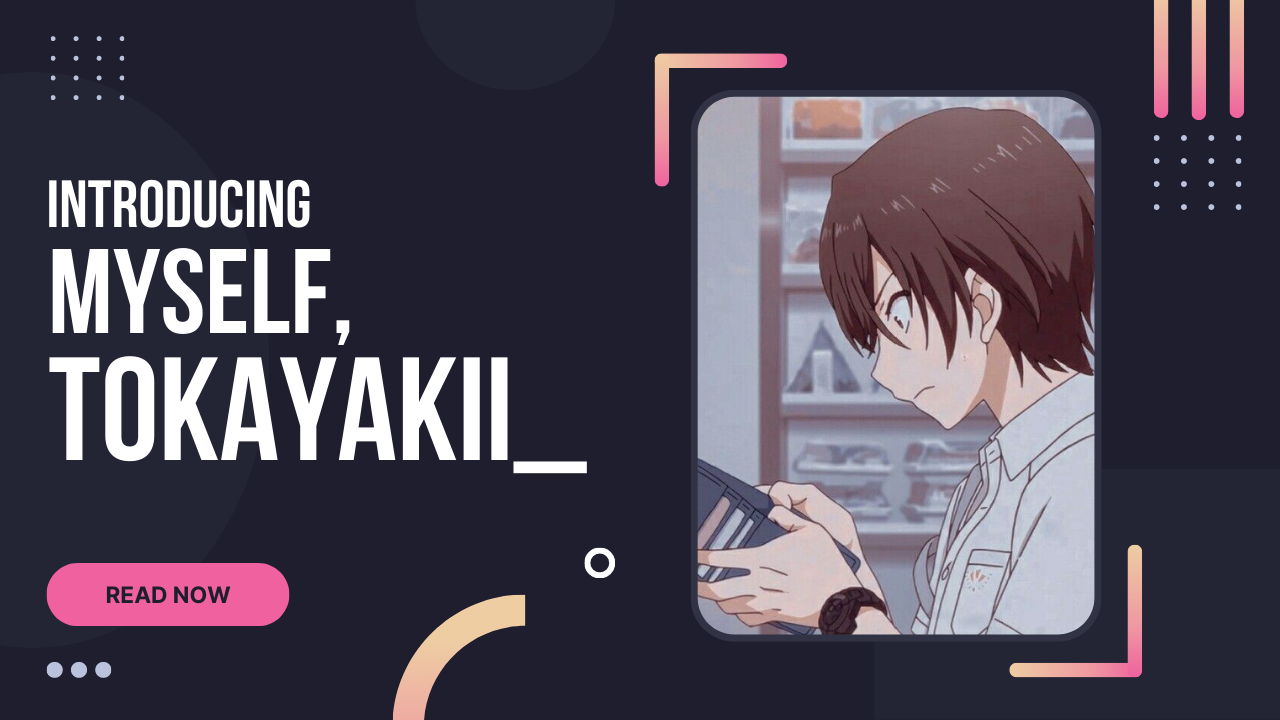
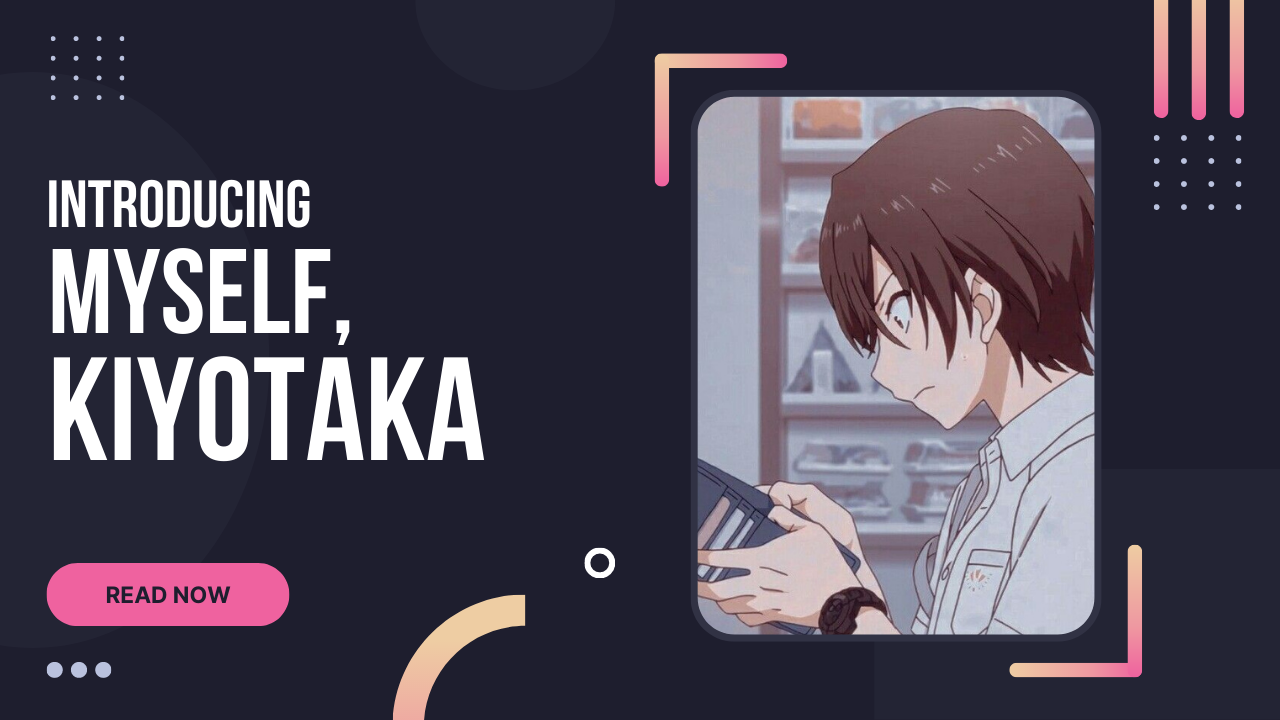
feat(mobile): Add NavBar dropdown for mobile screen devices

Changed region(s): [[0.0312, 0.4889, 0.4062, 0.6417], [0.4062, 0.6417, 0.4688, 0.6722]]

diff --git a/src/views/HomeView.vue b/src/views/HomeView.vue
@@ -143,9 +143,9 @@
                 </div>
             </div>
         </div>
-        <div class="w-screen h-screen sm:h-fit py-12 bg-base pt-10 text-text sm:px-44 px-8 relative">
+        <div class="w-screen min-h-[660px] sm:h-fit bg-base pt-10 text-text sm:px-44 px-8 relative">
             <div class="text-4xl font-bold">Blogs</div>
-            <div class="blog mt-10 sm:flex h-[380px]">
+            <div class="blog mt-6 sm:flex h-[380px]">
                 <img
                     src="/blog.png"
                     class="sm:w-1/2 border-2 border-surface0/40 rounded-lg"
@@ -159,7 +159,7 @@
                         </div>
                     </div>
                     <div class="title mt-4 text-3xl font-bold">
-                        Introducing myself, I am thevoidcupboard!
+                        Introducing myself, I am kiyotaka!
                     </div>
                     <div class="title mt-2 text-overlay1 font-semibold">
                         A summary of my life as a programmer!
@@ -189,15 +189,15 @@
                     </div>
                     <div class="flex mt-4">
                         <a href="/blog/me" class="text-blue font-semibold flex items-center justify-center text-xs text:text-base">Read more <vue-feather type="arrow-right"  size="20" class="ml-2"/></a>
-                        <div class="sumup ml-auto flex bg-surface0/40 p-4 sm:p-2 rounded-xl px-5 text-xs sm:text-base">
-                            <div class="time flex items-center justify-center"><vue-feather type="clock" size="16" class="mr-2" />10 min</div>
-                            <div class="time ml-6 flex items-center justify-center"><vue-feather type="eye" size="16" class="mr-2" />1408</div>
+                        <div class="sumup ml-auto flex bg-surface0/40 p-4 sm:p-2 rounded-xl px-5 sm:px-4 text-xs sm:text-base">
+                            <div class="time flex items-center justify-center text-text"><vue-feather type="clock" size="16" class="mr-2" />10 min</div>
+                            <div class="time ml-6 flex items-center justify-center text-text"><vue-feather type="eye" size="16" class="mr-2" />1408</div>
                         </div>
                     </div>
                 </div>
             </div>
         </div>
-        <div class="w-screen py-12 bg-base pt-32 text-text flex items-center justify-center flex-col sm:px-44 relative">
+        <div class="w-screen pb-12 pt-20 sm:pt-0 bg-base text-text flex items-center justify-center flex-col sm:px-44 relative">
             <div class="text-4xl font-bold text-center">Get in Touch</div>
             <div class="sm:w-1/2 px-4 text-overlay1 font-semibold text-center mt-4">Wanna talk about a project? Contact me below! I will try to respond as soon as possible</div>
             <div class="w-1/2 mt-4 bg-surface0/40 p-2 rounded-3xl flex items-center justify-center hidden sm:flex">
@@ -209,7 +209,7 @@
                 <button class="bg-blue px-6 text-black rounded-3xl p-4 mt-4 mx-4 font-semibold">Sumbit</button>
             </div>
         </div>
-        <div class="w-screen h-52 pt-14 bg-base">
+        <div class="w-screen bg-base h-52 pt-14">
             <div class="w-[1600px] flex flex-col text-overlay1 items-center pt-12 bg-surface0/40 relative left-1/2 -translate-x-1/2 h-[1600px] rounded-full">
                 <img
                     src="https://avatars.githubusercontent.com/u/115910279?v=4"
@@ -229,9 +229,9 @@ import CircleType from "circletype";
 import SideBar from "../components/SideBar.vue";
 import { onMounted } from "vue";
 
-onMounted(() => {
-    const circletype = new CircleType(document.querySelector(".rounded"));
-
-    circletype.radius(48);
-});
+// onMounted(() => {
+//     const circletype = new CircleType(document.querySelector(".rounded"));
+//
+//     circletype.radius(48);
+// });
 </script>

diff --git a/src/components/NavBar.vue b/src/components/NavBar.vue
@@ -1,3 +1,26 @@
+<script lang="ts" setup>
+import {ref} from 'vue';
+
+
+const dropdown = ref<HTMLDivElement | null>(null);
+
+const open_dropdown = () => {
+    if(dropdown.value) {
+        if(dropdown.value.classList.contains("hidden")) {
+            dropdown.value.classList.remove("hidden")
+            dropdown.value.classList.add(...["flex" , "animate-grow" , "opacity-0"])
+
+            dropdown.value.querySelectorAll(".nav-item").forEach(e => {
+                e.classList.add("animate-fade_in")
+                console.log("HEHE")
+            })
+            
+            dropdown.value.querySelector(".quick_links")?.classList.add("animate-fade_in")
+        }
+    }
+}
+</script>
+
 <template>
     <div
         class="w-full z-40 h-20 fixed top-0 left-0 border-b-2 backdrop-blur-lg bg-base/20 text-text font-semibold border-b-surface0/40 flex items-center sm:justify-center"
@@ -16,8 +39,36 @@
             <div class="nav-item mx-8">Store</div>
             <div class="nav-item ml-8">Contact</div>
         </div>
-        <div class="sm:hidden ml-auto mr-5">
+        <div class="sm:hidden ml-auto mr-5" @click="open_dropdown()">
             <vue-feather type="menu" />
+        </div>
+        <div class="dropdown h-screen flex-col h-[0px] items-center pt-10 gap-y-7 w-screen fixed top-0 left-0 bg-surface0 hidden" ref="dropdown">
+            <div class="nav-item">Home</div>
+            <div class="nav-item">Portfolio</div>
+            <div class="nav-item">Blogs</div>
+            <div class="nav-item">Courses</div>
+            <div class="nav-item">Store</div>
+            <div class="nav-item">Contact</div>
+            <div class="quick_links flex gap-x-8 mt-8 text-overlay2">
+                <a href="https://gitlab.com/tokayakii"
+                    ><vue-feather type="gitlab" size="21"></vue-feather
+                ></a>
+                <a href="https://github.com/tokayakii"
+                    ><vue-feather type="github" size="21"></vue-feather
+                ></a>
+                <a href="https://www.linkedin.com/in/purple-light-ab4b2a253/"
+                    ><vue-feather type="linkedin" size="21"></vue-feather
+                ></a>
+                <a href="https://twitter.com/tokayakii_"
+                    ><vue-feather type="twitter" size="21"></vue-feather
+                ></a>
+                <a href="https://www.twitch.tv/tokayakii_"
+                    ><vue-feather type="twitch" size="21"></vue-feather
+                ></a>
+                <a href="https://github.com/tokayakii"
+                    ><vue-feather type="youtube" size="21"></vue-feather
+                ></a>
+            </div>
         </div>
     </div>
 </template>

diff --git a/tailwind.config.js b/tailwind.config.js
@@ -5,6 +5,8 @@ module.exports = {
         extend: {
             animation: {
                 floating: "floating 1s ease-in-out infinite",
+                grow: "grow 0.6s ease-in-out forwards",
+                fade_in: "fade_in 0.6s ease-in-out forwards"
             },
             keyframes: {
                 floating: {
@@ -13,6 +15,26 @@ module.exports = {
                     },
                     "50%": {
                         transform: "translateY(10px)",
+                    },
+                },
+                grow: {
+                    "0%": {
+                        height: "0px",
+                        opacity: 0.9
+                    },
+                    "100%": {
+                        height: "100vh",
+                        opacity: 1
+                    },
+                },
+                fade_in: {
+                    "0%": {
+                        opacity: 0,
+                        transform: "translateY(-10px)"
+                    },
+                    "100%": {
+                        opacity: 1,
+                        transform: "translateY(0px)"
                     },
                 },
             },
